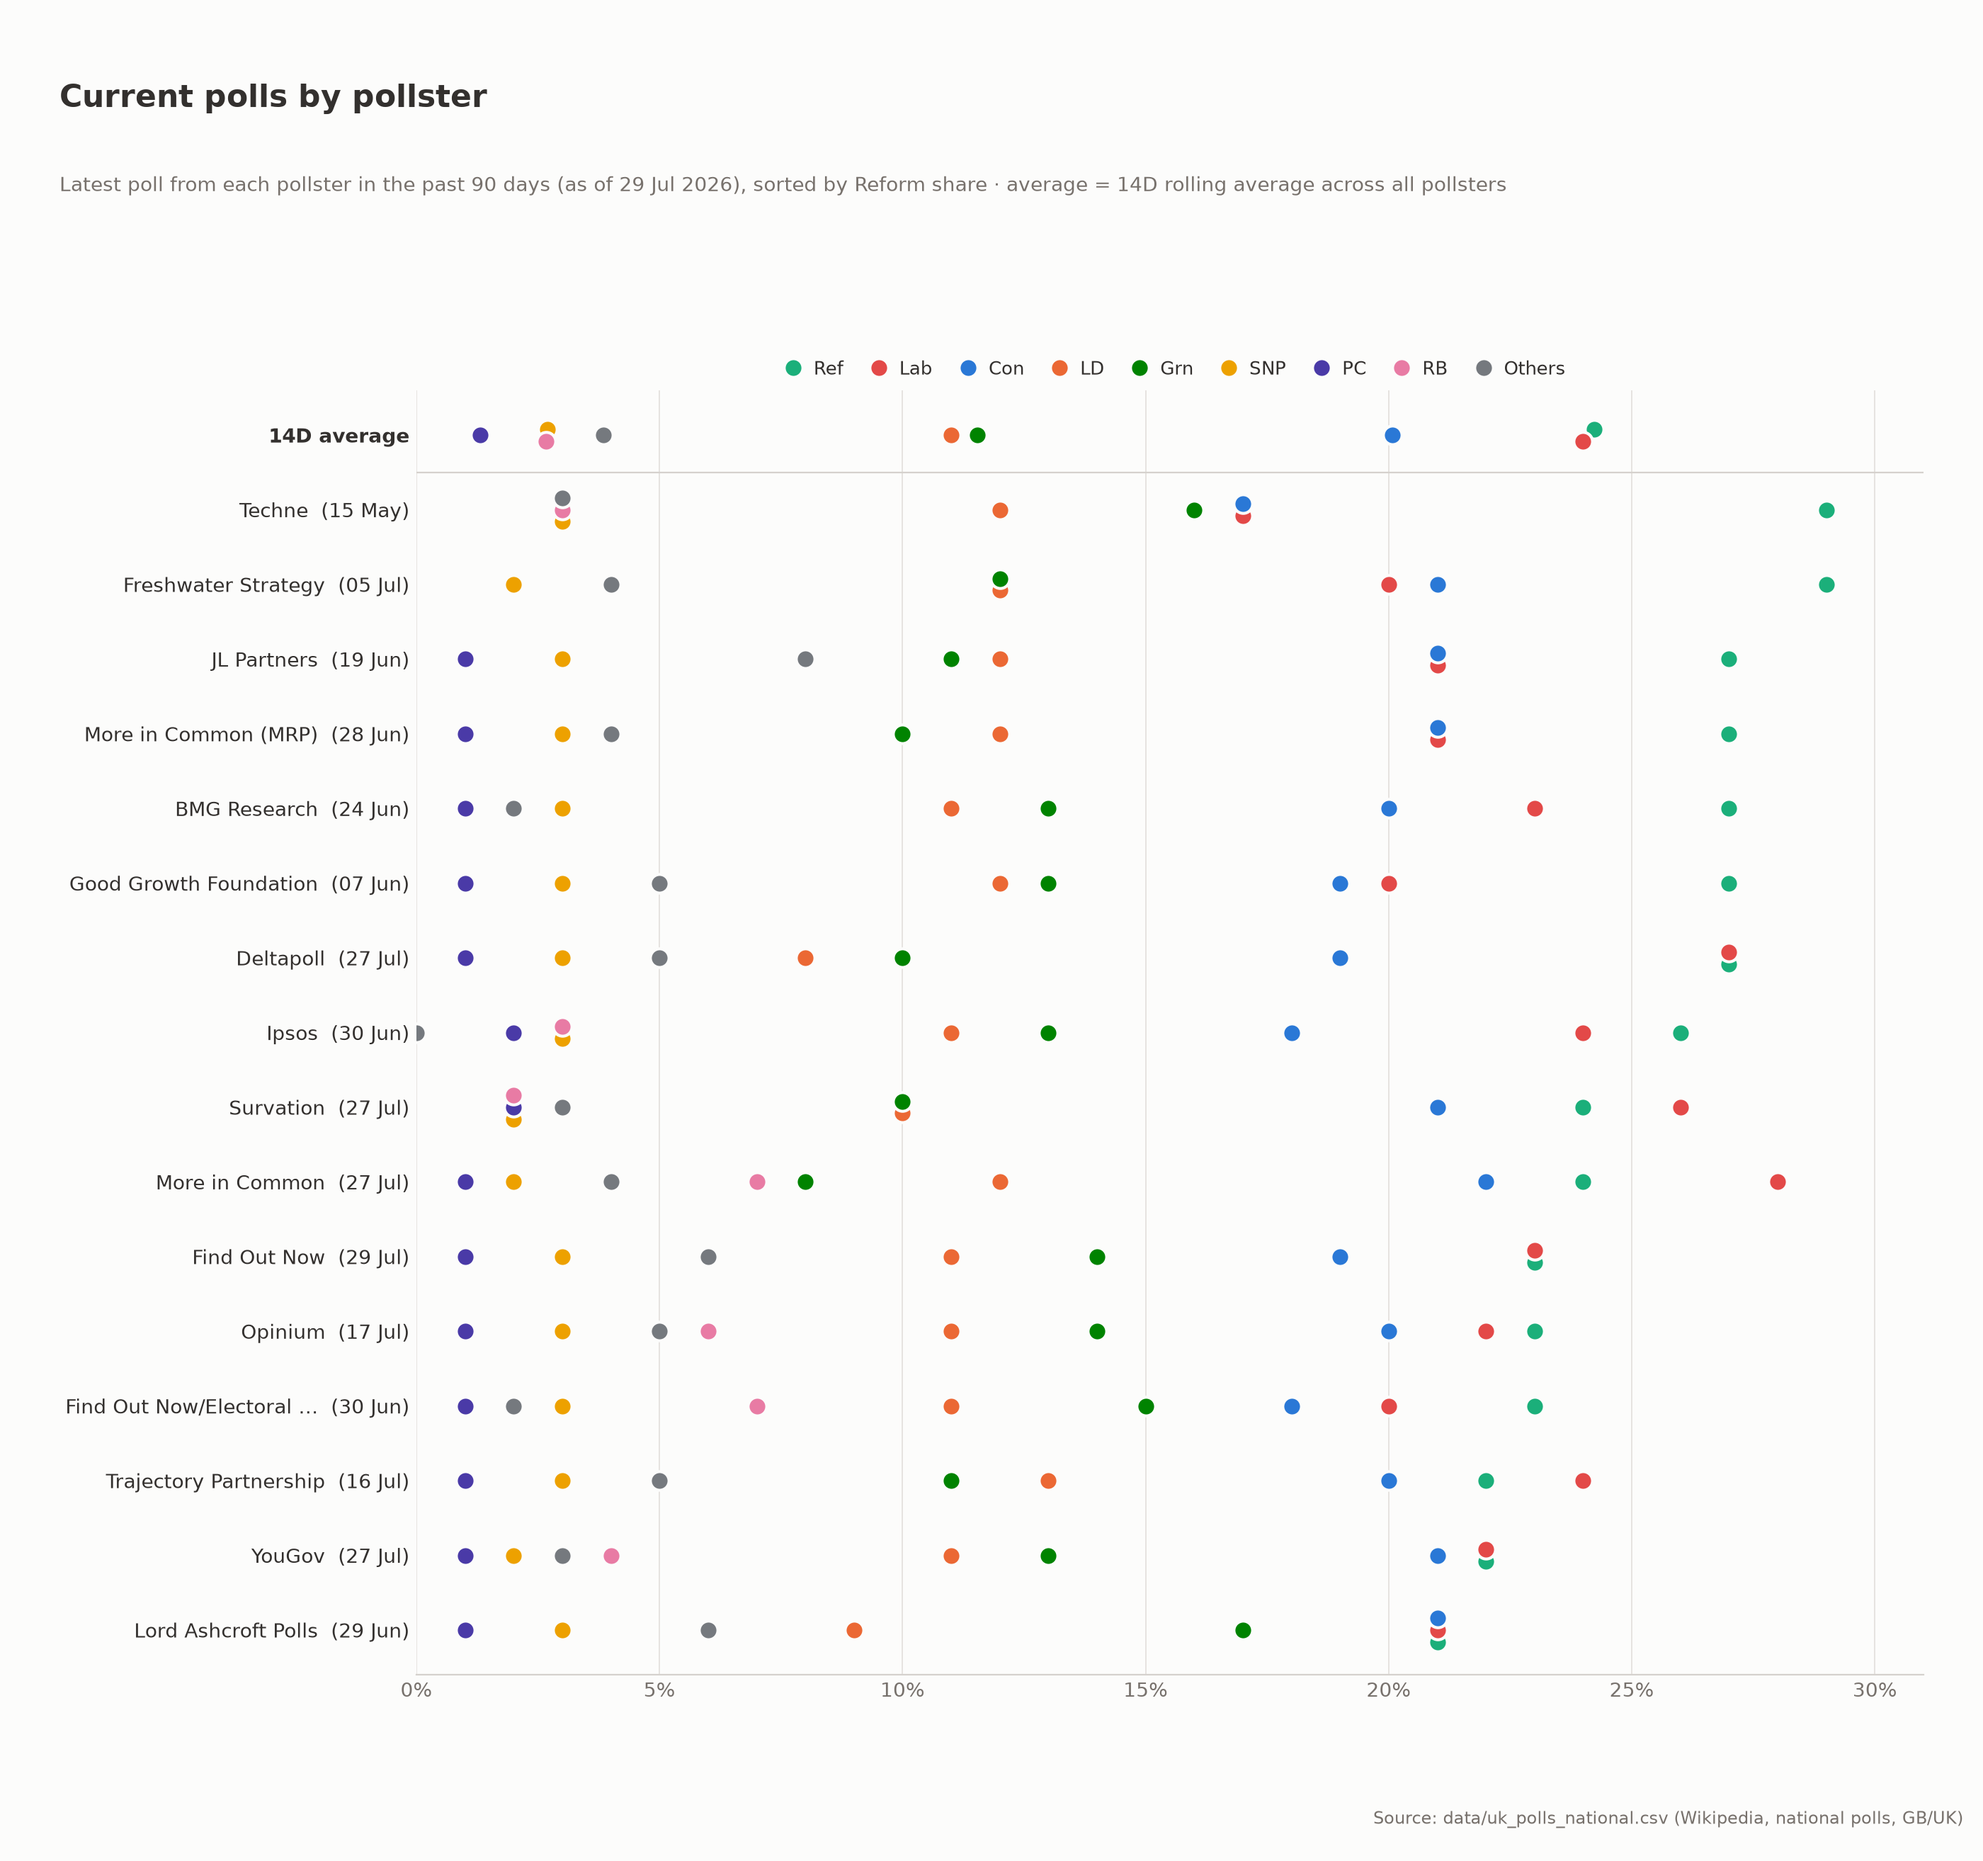
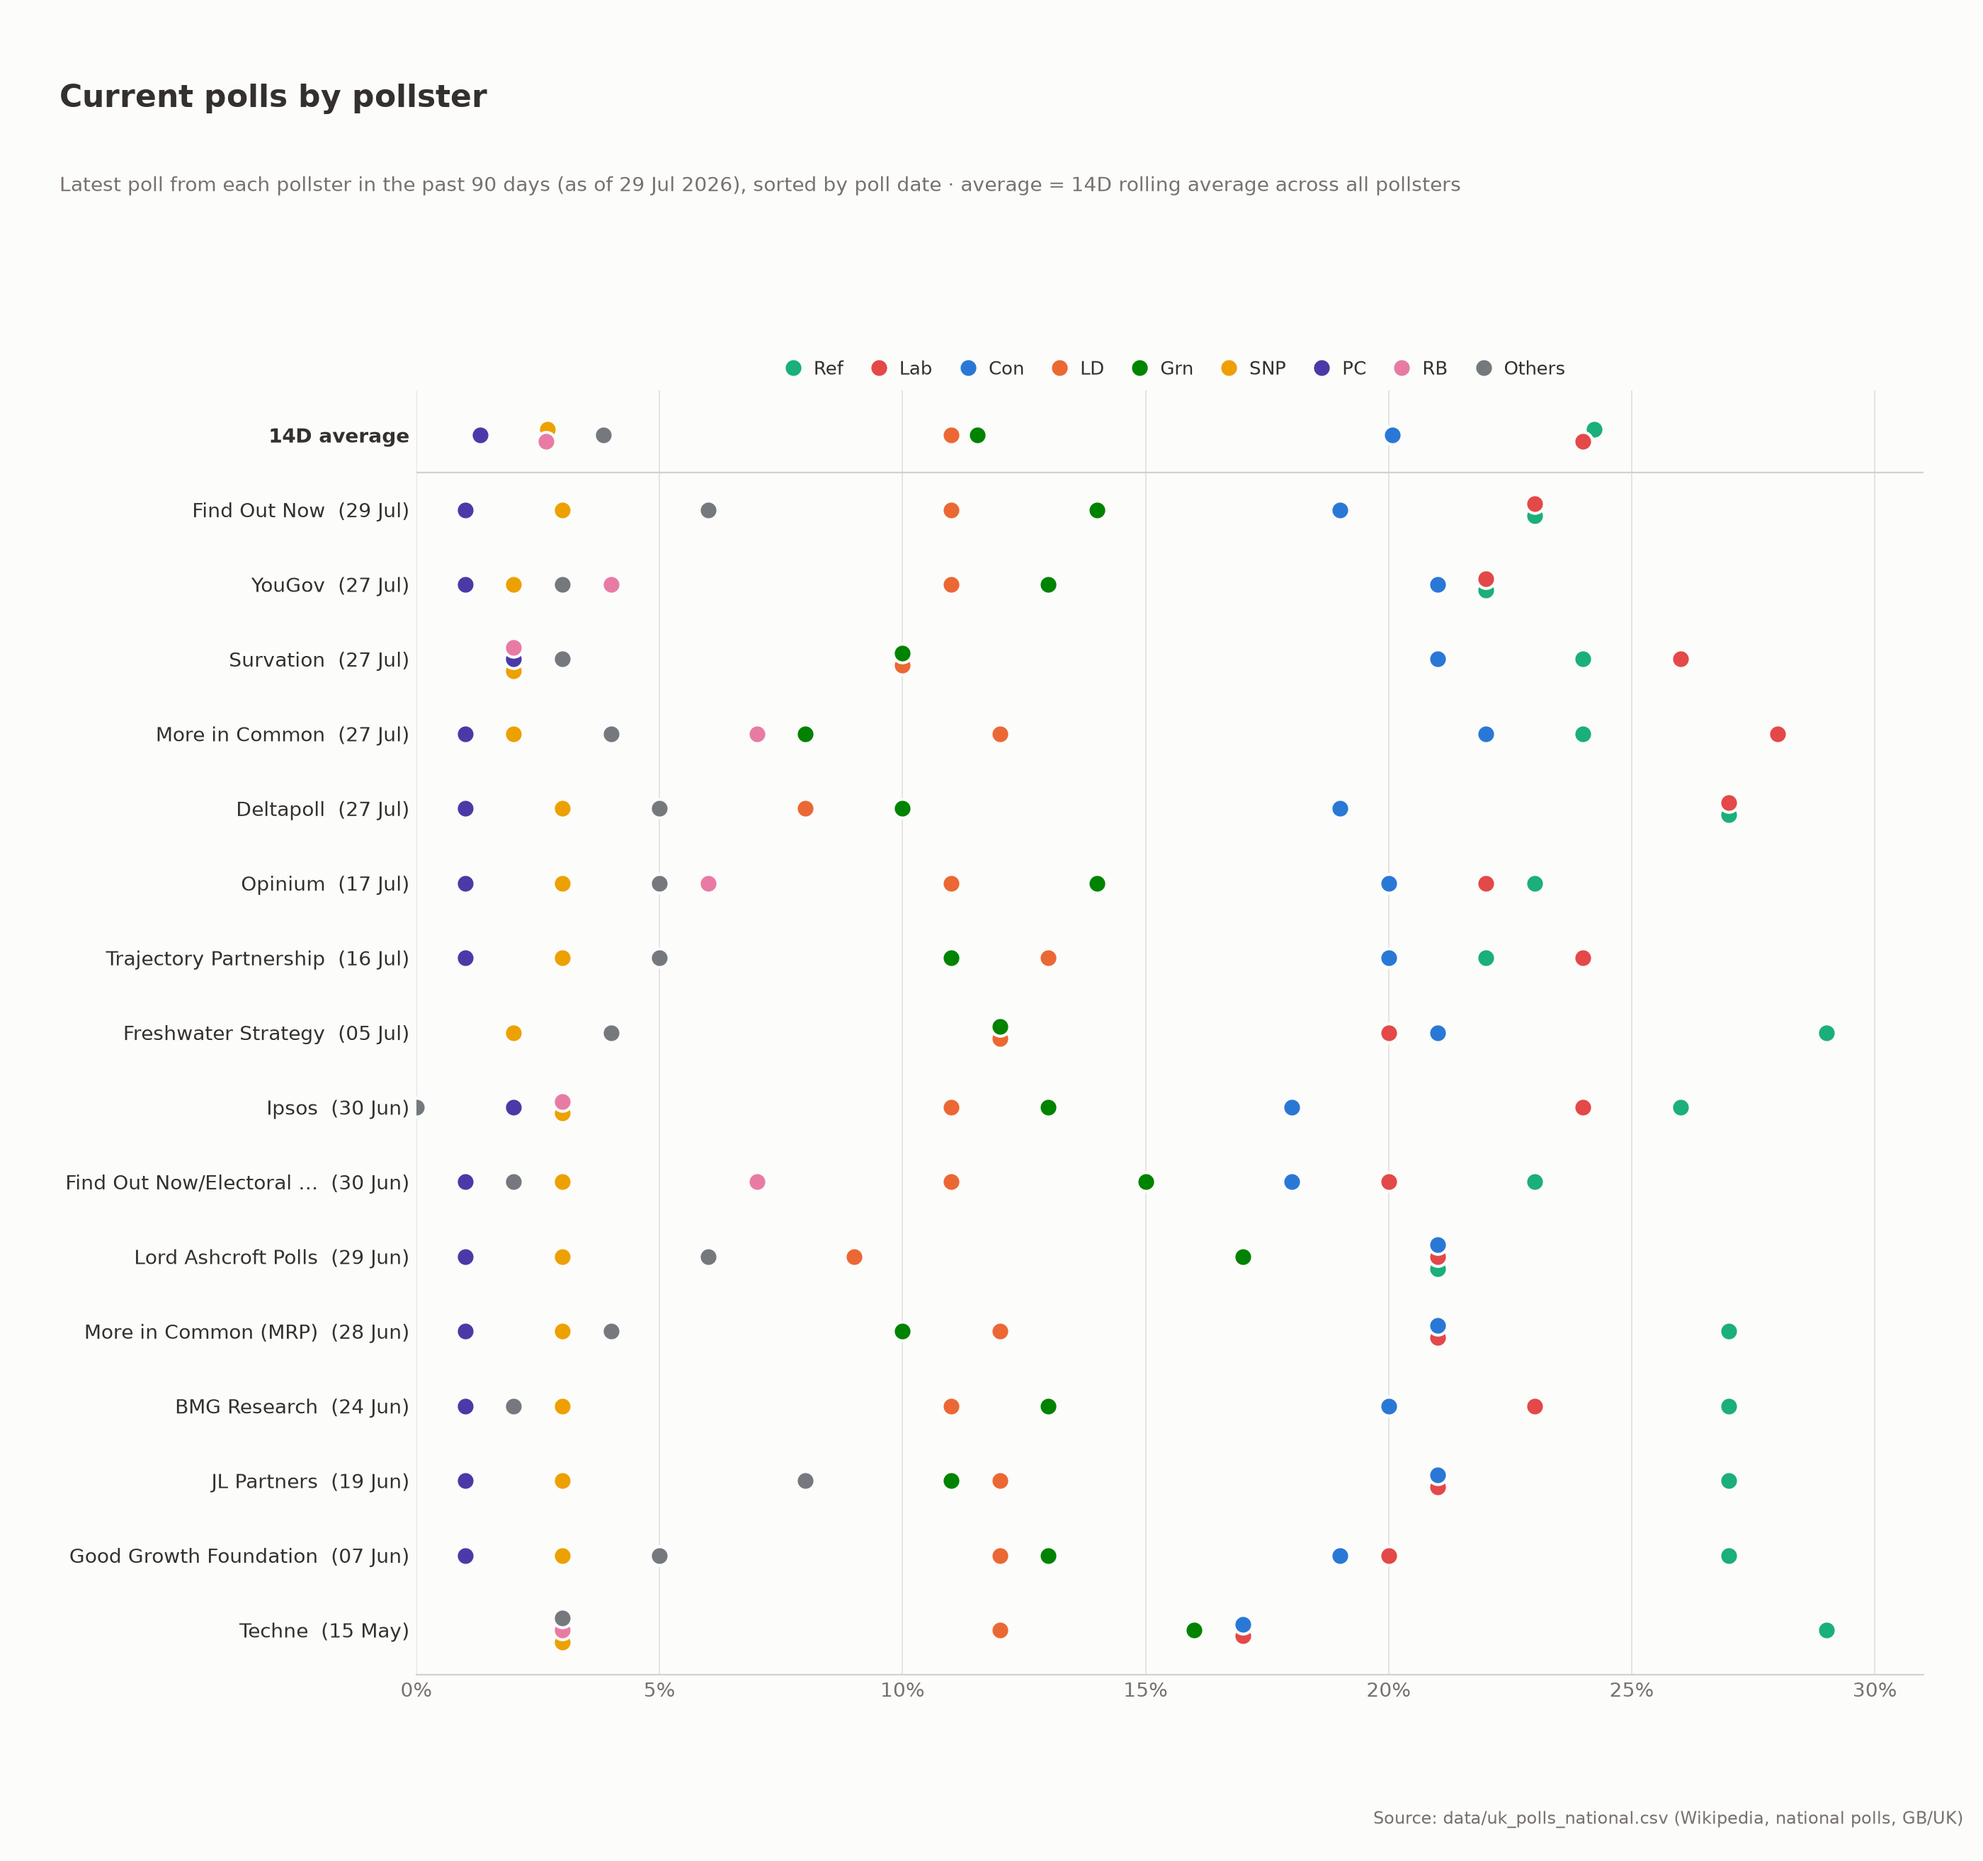
Order the pollster chart by poll date
The "Current polls by pollster" rows were sorted by Reform share; sort
them by the date of each pollster's latest poll instead, newest at the
top. Subtitle and README updated to match.

diff --git a/main.py b/main.py
@@ -172,7 +172,7 @@ def plot(df: pd.DataFrame, out_path: str, title: str, subtitle_prefix: str = "")
 def plot_pollsters(df: pd.DataFrame, out_path: str) -> None:
     cutoff = df.index.max() - pd.Timedelta(days=90)
     latest = df[df.index >= cutoff].reset_index().groupby("pollster").last()
-    latest = latest.sort_values("Ref")
+    latest = latest.sort_values("date")
 
     avg = latest_averages(df)
 
@@ -230,7 +230,7 @@ def plot_pollsters(df: pd.DataFrame, out_path: str) -> None:
     fig.text(
         0.03, 0.905,
         f"Latest poll from each pollster in the past 90 days (as of {df.index.max():%d %b %Y}), "
-        f"sorted by Reform share · average = {ROLLING_WINDOW} rolling average across all pollsters",
+        f"sorted by poll date · average = {ROLLING_WINDOW} rolling average across all pollsters",
         fontsize=10, color=MUTED, va="top",
     )
     fig.text(

diff --git a/README.md b/README.md
@@ -16,7 +16,7 @@ current state of the race:
 ![Voting intention, last 6 months](uk_polls_recent.png)
 
 A third chart compares pollsters ("house effects"): each row is a pollster's
-most recent poll from the past 90 days, sorted by Reform UK share, with the
+most recent poll from the past 90 days, sorted by poll date, with the
 all-pollster rolling average on top for reference:
 
 ![Current polls by pollster](uk_polls_pollsters.png)
